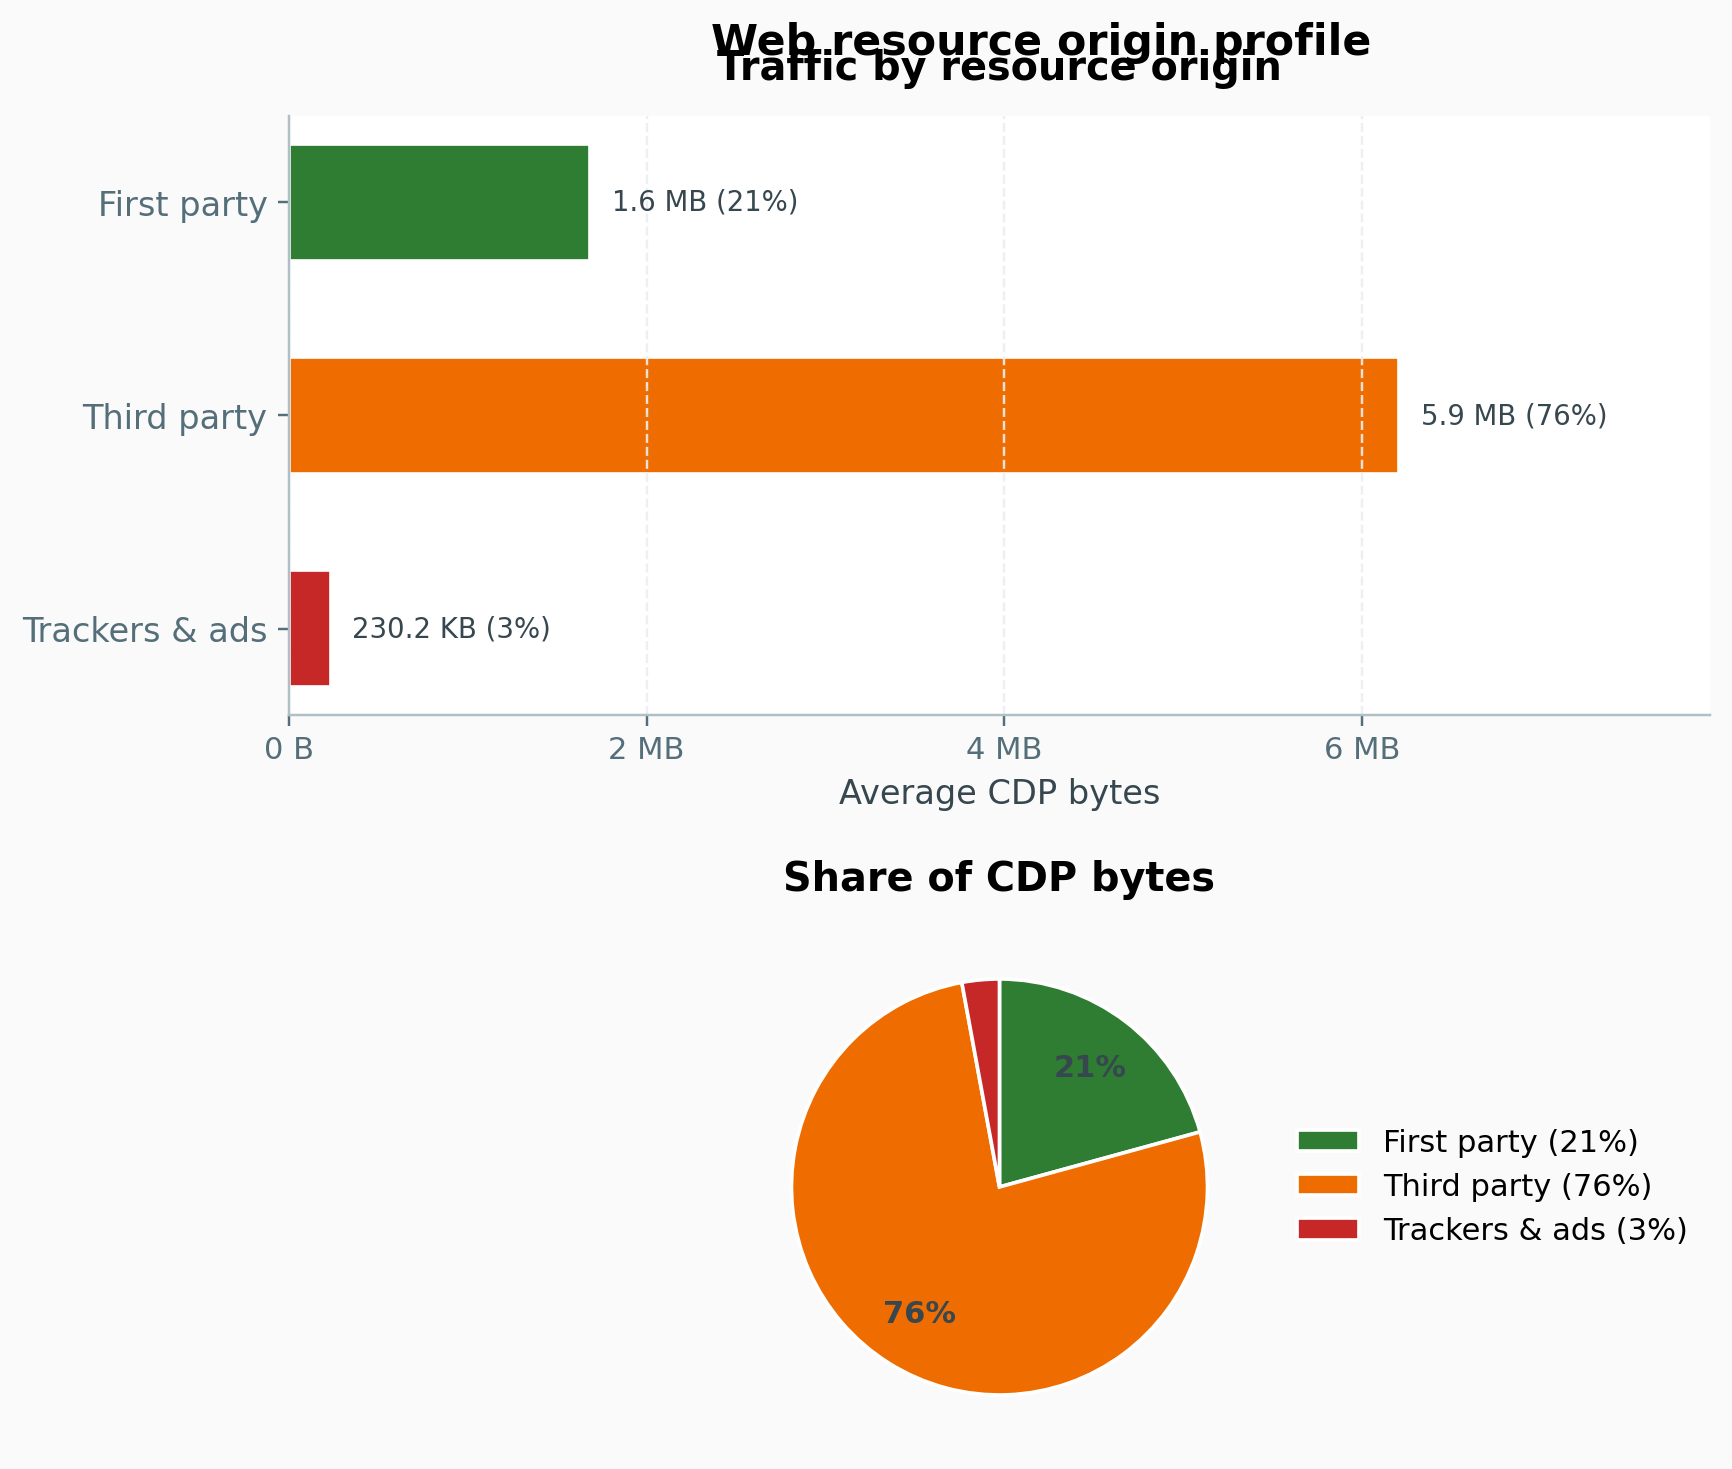
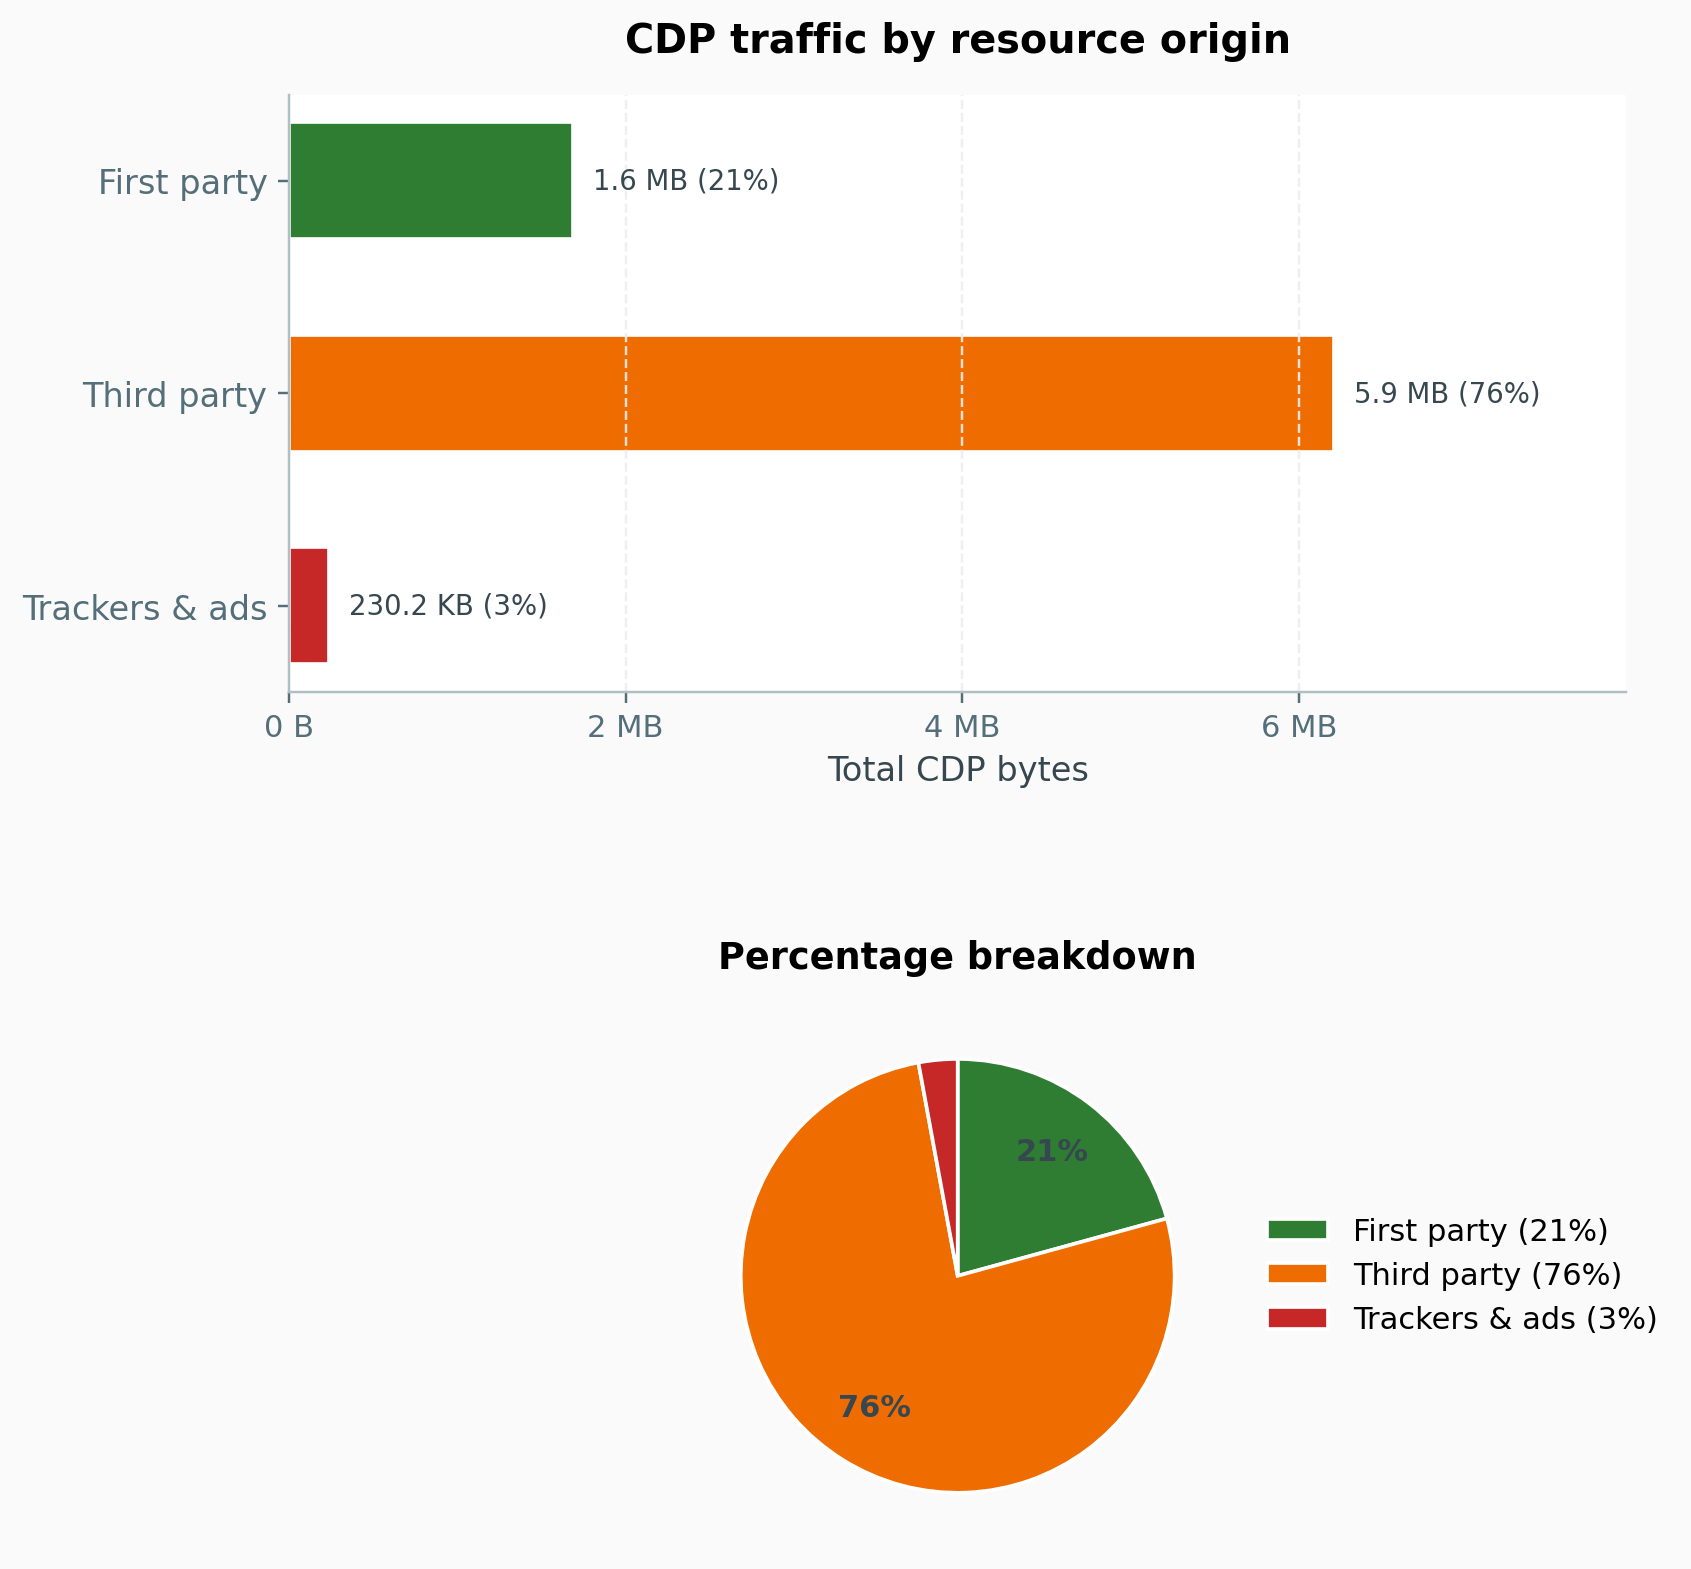
adjustments

diff --git a/src/run_analysis.py b/src/run_analysis.py
@@ -182,6 +182,26 @@ def _annotate_bars(ax, bars, values, formatter=_format_bytes, offset_ratio: floa
         )
 
 
+def _annotate_log_bars(ax, bars, values, formatter=_format_bytes):
+    positive = [value for value in values if value > 0]
+    if positive:
+        ax.set_ylim(min(positive) * 0.35, max(positive) * 3.8)
+
+    for bar, value in zip(bars, values):
+        if value <= 0:
+            continue
+        ax.text(
+            bar.get_x() + bar.get_width() / 2,
+            value * 1.35,
+            formatter(value),
+            ha="center",
+            va="bottom",
+            fontsize=9,
+            color="#37474F",
+            fontweight="500",
+        )
+
+
 def _plot_dns_protocol_comparison(path: Path, dns_summary: list[dict[str, Any]]) -> bool:
     if not dns_summary:
         return False
@@ -195,36 +215,37 @@ def _plot_dns_protocol_comparison(path: Path, dns_summary: list[dict[str, Any]])
     values = [row["avg_bytes"] for row in dns_summary]
     colors = [PROTOCOL_COLORS.get(row["protocol"], "#455A64") for row in dns_summary]
 
-    fig, ax = plt.subplots(figsize=(8.5, 5.2))
+    fig, ax = plt.subplots(figsize=(8.5, 5.8))
     bars = ax.bar(labels, values, color=colors, width=0.58, edgecolor="white", linewidth=1.2)
 
-    ax.set_title("DNS resolution traffic by protocol", pad=14)
-    ax.set_ylabel("Average bytes per resolution")
+    ax.set_title("Average DNS traffic by protocol", pad=18)
+    ax.set_ylabel("Bytes per resolution")
     ax.set_yscale("log")
     ax.grid(axis="y", linestyle="--", alpha=0.9)
     ax.spines["top"].set_visible(False)
     ax.spines["right"].set_visible(False)
 
-    _annotate_bars(ax, bars, values)
+    _annotate_log_bars(ax, bars, values)
 
     if len(values) >= 2 and values[0] > 0:
         ratio = values[1] / values[0]
         ax.text(
-            0.98,
-            0.96,
+            0.03,
+            0.97,
             f"DoH ≈ {ratio:.0f}× classic DNS",
             transform=ax.transAxes,
-            ha="right",
+            ha="left",
             va="top",
             fontsize=9,
             color="#546E7A",
             bbox={"boxstyle": "round,pad=0.35", "facecolor": "#ECEFF1", "edgecolor": "none"},
         )
 
+    fig.subplots_adjust(top=0.90, bottom=0.16)
     fig.text(
-        0.01,
-        0.01,
-        "Sample run · log scale · bytes include transport and encryption overhead",
+        0.12,
+        0.05,
+        "Log scale · includes transport and encryption overhead",
         fontsize=8,
         color="#78909C",
     )
@@ -333,8 +354,8 @@ def _plot_origin_distribution(path: Path, origin_summary: list[dict[str, Any]]) 
     fig, (ax_bar, ax_pie) = plt.subplots(
         2,
         1,
-        figsize=(9.5, 7.2),
-        gridspec_kw={"height_ratios": [1.15, 1], "hspace": 0.38},
+        figsize=(9.5, 7.5),
+        gridspec_kw={"height_ratios": [1.1, 1], "hspace": 0.55},
     )
 
     y_pos = range(len(labels))
@@ -349,8 +370,8 @@ def _plot_origin_distribution(path: Path, origin_summary: list[dict[str, Any]]) 
     ax_bar.set_yticks(list(y_pos))
     ax_bar.set_yticklabels(labels, fontsize=11)
     ax_bar.invert_yaxis()
-    ax_bar.set_xlabel("Average CDP bytes")
-    ax_bar.set_title("Traffic by resource origin", pad=12)
+    ax_bar.set_xlabel("Total CDP bytes")
+    ax_bar.set_title("CDP traffic by resource origin", pad=14, fontsize=13, fontweight="600")
     ax_bar.set_xlim(0, xmax)
     ax_bar.xaxis.set_major_locator(MaxNLocator(nbins=5))
     ax_bar.xaxis.set_major_formatter(
@@ -389,10 +410,9 @@ def _plot_origin_distribution(path: Path, origin_summary: list[dict[str, Any]]) 
         frameon=False,
         fontsize=10,
     )
-    ax_pie.set_title("Share of CDP bytes", pad=12)
+    ax_pie.set_title("Percentage breakdown", pad=12, fontsize=12)
 
-    fig.suptitle("Web resource origin profile", fontsize=14, fontweight="600", y=0.98)
-    fig.subplots_adjust(left=0.14, right=0.82, top=0.92, bottom=0.08)
+    fig.subplots_adjust(left=0.14, right=0.78, top=0.96, bottom=0.08, hspace=0.55)
     _save_figure(plt, path)
     return True
 
@@ -417,7 +437,7 @@ def _plot_run_dashboard(
 
     fig, axes = plt.subplots(2, 2, figsize=(12.5, 9))
     fig.suptitle(
-        f"Resumen de ejecución — {run_id}",
+        f"Experiment summary — {run_id}",
         fontsize=15,
         fontweight="600",
         y=0.98,
@@ -430,12 +450,12 @@ def _plot_run_dashboard(
     dns_colors = [PROTOCOL_COLORS.get(row["protocol"], "#455A64") for row in dns_summary]
     bars = ax.bar(dns_labels, dns_values, color=dns_colors, edgecolor="white", width=0.58)
     ax.set_yscale("log")
-    ax.set_title("Bytes medios por protocolo DNS")
-    ax.set_ylabel("Bytes (escala log)")
+    ax.set_title("Average DNS traffic by protocol")
+    ax.set_ylabel("Bytes (log scale)")
     ax.grid(axis="y", linestyle="--", alpha=0.8)
     ax.spines["top"].set_visible(False)
     ax.spines["right"].set_visible(False)
-    _annotate_bars(ax, bars, dns_values)
+    _annotate_log_bars(ax, bars, dns_values)
     if dns_base and len(dns_values) >= 2:
         ax.text(
             0.98,
@@ -460,7 +480,7 @@ def _plot_run_dashboard(
     ax.bar([i + width / 2 for i in x], cdp_values, width, label="CDP", color="#00838F", edgecolor="white")
     ax.set_xticks(list(x))
     ax.set_xticklabels(sites, rotation=15, ha="right")
-    ax.set_title("Tráfico web por sitio")
+    ax.set_title("Web traffic by site")
     ax.legend(frameon=False, fontsize=8, loc="upper right")
     ax.yaxis.set_major_formatter(plt.FuncFormatter(lambda value, _pos: _format_bytes(value)))
     ax.grid(axis="y", linestyle="--", alpha=0.8)
@@ -479,9 +499,9 @@ def _plot_run_dashboard(
         ratio_labels.append(f"{ratio:.2f}×")
 
     bars = ax.bar(range(len(sites)), ratios, color=CATEGORY_PALETTE[: len(sites)], edgecolor="white", width=0.62)
-    ax.axhline(1.0, color="#C62828", linestyle="--", linewidth=1, label="1× (sin sobrecoste)")
-    ax.set_title("Ratio PCAP / CDP")
-    ax.set_ylabel("Multiplicador")
+    ax.axhline(1.0, color="#C62828", linestyle="--", linewidth=1, label="1× (no overhead)")
+    ax.set_title("PCAP / CDP ratio")
+    ax.set_ylabel("Multiplier")
     ax.set_xticks(range(len(sites)))
     ax.set_xticklabels(sites, rotation=15, ha="right")
     ax.legend(frameon=False, fontsize=8)
@@ -529,12 +549,12 @@ def _plot_run_dashboard(
         frameon=False,
         fontsize=8,
     )
-    ax.set_title("Origen del tráfico CDP (total)")
+    ax.set_title("CDP traffic by origin (total)")
 
     fig.text(
         0.01,
         0.01,
-        "Datos de la última ejecución analizada · ver summary.md",
+        "Latest analyzed run · see summary.md",
         fontsize=8,
         color="#78909C",
     )
@@ -579,19 +599,19 @@ def _markdown_report(
     generated_plots: list[str],
 ) -> str:
     lines = [
-        "# Resumen del análisis",
+        "# Analysis summary",
         "",
-        f"Carpeta de ejecución: `{run_dir}`",
+        f"Run directory: `{run_dir}`",
         "",
-        "Resumen rápido de la ejecución: comparación de protocolos DNS, tráfico web "
-        "capturado y estimación de huella de carbono.",
+        "Compact overview of protocol overhead, captured web traffic and estimated "
+        "carbon footprint.",
         "",
-        "## Comparación de protocolos DNS",
+        "## DNS protocol comparison",
         "",
     ]
 
     if dns_summary:
-        lines.append("| Protocolo | Muestras | Bytes medios | CO₂ medio (kg) | Sobrecoste vs DNS |")
+        lines.append("| Protocol | Samples | Avg bytes | Avg CO₂ (kg) | Overhead vs DNS |")
         lines.append("| --- | ---: | ---: | ---: | ---: |")
         dns_base = next((row["avg_bytes"] for row in dns_summary if row["protocol"] == "dns"), None)
         for row in dns_summary:
@@ -602,11 +622,11 @@ def _markdown_report(
                 f"{row['avg_co2_kg']:.6e} | {ratio:.1f}× |"
             )
     else:
-        lines.append("No hay resultados DNS en esta ejecución.")
+        lines.append("No DNS results found for this run.")
 
-    lines.extend(["", "## Tráfico web por sitio", ""])
+    lines.extend(["", "## Web traffic by site", ""])
     if web_summary:
-        lines.append("| Sitio | Categoría | Bytes PCAP | Bytes CDP | Ratio PCAP/CDP |")
+        lines.append("| Site | Category | PCAP bytes | CDP bytes | PCAP/CDP ratio |")
         lines.append("| --- | --- | ---: | ---: | ---: |")
         for row in web_summary:
             cdp = row.get("avg_cdp_bytes", 0)
@@ -618,22 +638,23 @@ def _markdown_report(
                 f"{_format_bytes(pcap)} | {_format_bytes(cdp)} | {ratio:.2f}× |"
             )
     else:
-        lines.append("No hay resultados web en esta ejecución.")
+        lines.append("No web results found for this run.")
 
-    lines.extend(["", "## Perfil por origen de recursos", ""])
+    lines.extend(["", "## Resource origin profile", ""])
     if origin_summary:
-        lines.append("| Origen | Sitios | Bytes CDP totales | % del CDP total |")
+        lines.append("| Origin class | Sites | Total CDP bytes | Share of CDP |")
         lines.append("| --- | ---: | ---: | ---: |")
         for row in origin_summary:
+            origin_label = ORIGIN_LABELS.get(row["origin_class"], row["origin_class"])
             lines.append(
-                f"| {row['origin_class']} | {row['samples']} | "
+                f"| {origin_label} | {row['samples']} | "
                 f"{_format_bytes(row['bytes'])} | {row['pct_of_cdp_bytes']:.1f}% |"
             )
     else:
-        lines.append("No hay perfiles CDP de recursos en esta ejecución.")
+        lines.append("No CDP resource profiles found for this run.")
 
     if generated_plots:
-        lines.extend(["", "## Figuras generadas", ""])
+        lines.extend(["", "## Generated figures", ""])
         for plot in generated_plots:
             lines.append(f"- `{plot}`")
 

diff --git a/results/run_20260626/analysis/summary.md b/results/run_20260626/analysis/summary.md
@@ -1,18 +1,20 @@
-# Resumen del análisis
+# Analysis summary
 
-Carpeta de ejecución: `results/run_20260626`
+Run directory: `results/run_20260626`
 
-## Comparación de protocolos DNS
+Compact overview of protocol overhead, captured web traffic and estimated carbon footprint.
 
-| Protocolo | Muestras | Bytes medios | CO₂ medio (kg) | Sobrecoste vs DNS |
+## DNS protocol comparison
+
+| Protocol | Samples | Avg bytes | Avg CO₂ (kg) | Overhead vs DNS |
 | --- | ---: | ---: | ---: | ---: |
 | DNS | 5 | 688 (688 B) | 7.642222e-12 | 1.0× |
 | DOH | 5 | 31653 (30.9 KB) | 3.517022e-10 | 46.0× |
 | DOQ | 5 | 40682 (39.7 KB) | 4.520244e-10 | 59.1× |
 
-## Tráfico web por sitio
+## Web traffic by site
 
-| Sitio | Categoría | Bytes PCAP | Bytes CDP | Ratio PCAP/CDP |
+| Site | Category | PCAP bytes | CDP bytes | PCAP/CDP ratio |
 | --- | --- | ---: | ---: | ---: |
 | bbc | news | 7.4 MB | 2.4 MB | 3.10× |
 | github | developer | 1.3 MB | 3.8 MB | 0.34× |
@@ -20,10 +22,17 @@ Carpeta de ejecución: `results/run_20260626`
 | python | developer | 4.0 MB | 499.5 KB | 8.22× |
 | wikipedia | knowledge | 3.5 MB | 99.8 KB | 36.16× |
 
-## Perfil por origen de recursos
+## Resource origin profile
 
-| Origen | Sitios | Bytes CDP totales | % del CDP total |
+| Origin class | Sites | Total CDP bytes | Share of CDP |
 | --- | ---: | ---: | ---: |
-| first_party | 5 | 1.6 MB | 20.7% |
-| third_party | 3 | 5.9 MB | 76.4% |
-| tracker_or_ads | 3 | 230.2 KB | 2.9% |
+| First party | 5 | 1.6 MB | 20.7% |
+| Third party | 3 | 5.9 MB | 76.4% |
+| Trackers & ads | 3 | 230.2 KB | 2.9% |
+
+## Generated figures
+
+- `fig_dns_avg_bytes.png`
+- `fig_web_traffic_comparison.png`
+- `fig_web_origin_bytes.png`
+- `fig_dashboard.png`
